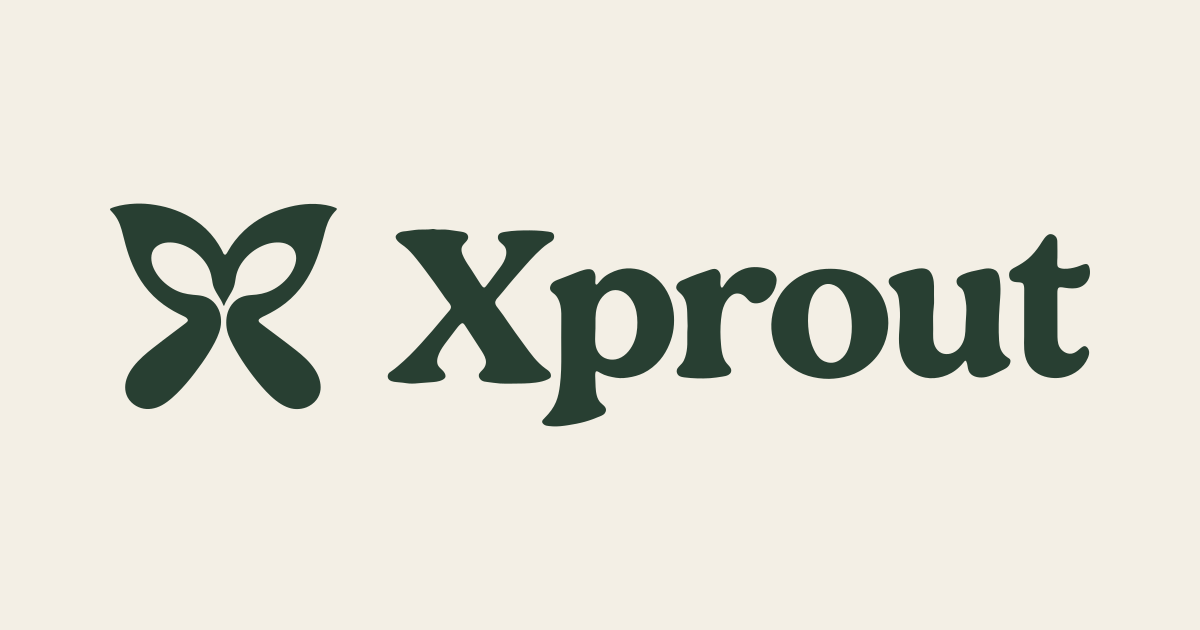
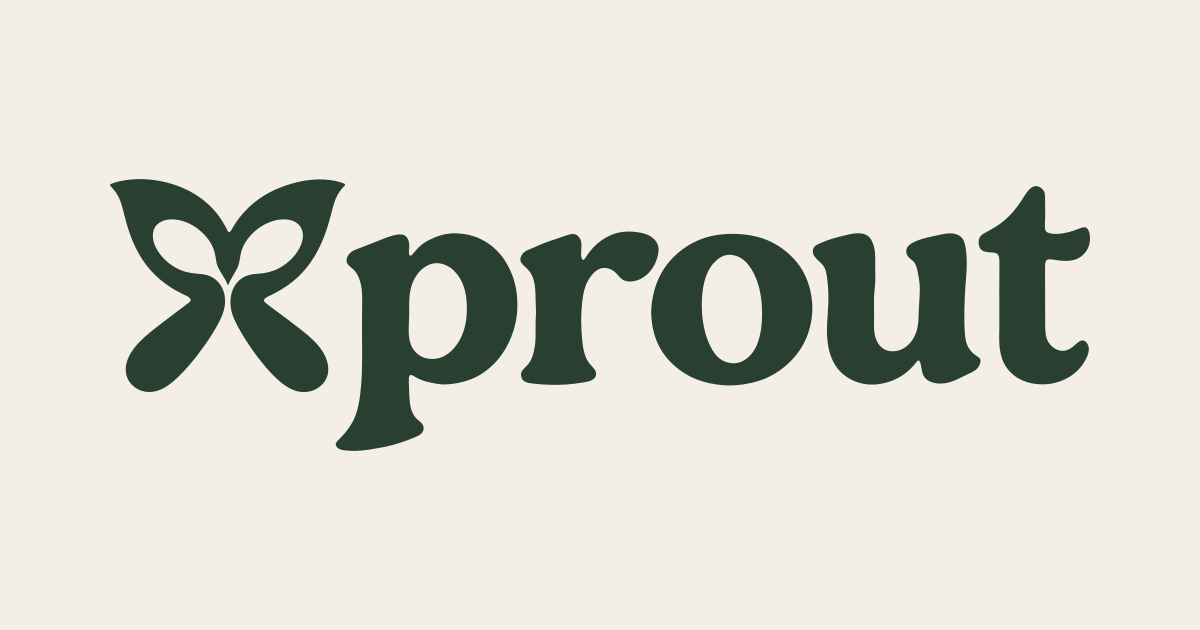
chore(brand): tighten the Xprout horizontal signature
Rebuilds the horizontal wordmark (forest and ivory) with the tighter
layout, the social card that uses it, and the scripts and geometry that
generate the pack; PlatformSignature follows the new aspect ratio.

Changed region(s): [[0.0925, 0.2714, 0.925, 0.7238], [0.0925, 0.5429, 0.1542, 0.6635]]

diff --git a/src/lib/platform-brand.ts b/src/lib/platform-brand.ts
@@ -1,4 +1,5 @@
-/** Versioned platform assets from the approved, unchanged Xprout v7 master. */
+/** Versioned platform assets from the approved Xprout v7 symbol and lettering. The horizontal
+ * signature is the monogram: the symbol stands in for the capital X, followed by "prout". */
 export const PLATFORM_BRAND_ASSETS = {
   icon: '/brand/xprout/v1/icon-512.png',
   icon192: '/brand/xprout/v1/icon-192.png',
@@ -9,16 +10,16 @@ export const PLATFORM_BRAND_ASSETS = {
   favicon32: '/brand/xprout/v1/favicon-32.png',
   faviconIco: '/brand/xprout/v1/favicon.ico',
   // Content revisions prevent an older proportional layout surviving CDN/browser caches.
-  horizontalForest: '/brand/xprout/v1/xprout-horizontal-forest.svg?v=3144b79c',
-  horizontalIvory: '/brand/xprout/v1/xprout-horizontal-ivory.svg?v=2e899574',
+  horizontalForest: '/brand/xprout/v1/xprout-horizontal-forest.svg?v=c8a37e22',
+  horizontalIvory: '/brand/xprout/v1/xprout-horizontal-ivory.svg?v=2918de51',
   symbolForest: '/brand/xprout/v1/xprout-symbol-forest.svg',
   symbolIvory: '/brand/xprout/v1/xprout-symbol-ivory.svg',
-  social: '/brand/xprout/v1/social-card-1200x630.webp?v=ad105444',
-  socialPng: '/brand/xprout/v1/social-card-1200x630.png?v=411ed0a0',
+  social: '/brand/xprout/v1/social-card-1200x630.webp?v=5c14a3a7',
+  socialPng: '/brand/xprout/v1/social-card-1200x630.png?v=92c8f195',
 } as const
 
 /** Version the generated social route with the approved PNG's content revision. */
-export const PLATFORM_SOCIAL_IMAGE = '/opengraph-image?v=411ed0a0'
+export const PLATFORM_SOCIAL_IMAGE = '/opengraph-image?v=92c8f195'
 
 /** Explicit configuration wins; only an absent logo selects the platform default. */
 export function platformLogoUrl(configured?: string | null): string {

diff --git a/tests/unit/platform-brand-runtime.test.ts b/tests/unit/platform-brand-runtime.test.ts
@@ -53,7 +53,7 @@ describe('approved platform identity preserves explicit configuration', () => {
     const markup = renderToStaticMarkup(createElement(PlatformSignature, { tone: 'ivory' }))
     expect(markup).toContain('alt="Xprout"')
     expect(markup).toContain(PLATFORM_BRAND_ASSETS.horizontalIvory)
-    expect(markup).toContain('aspect-ratio:1064.1543518142191 / 320.0414858022277')
+    expect(markup).toContain('aspect-ratio:901.8794539094855 / 314.0554789427838')
     expect(markup).not.toContain('<span')
   })
   it('uses the signature only for the default Xprout identity in navigation and footer', () => {

diff --git a/src/components/branding/PlatformSignature.tsx b/src/components/branding/PlatformSignature.tsx
@@ -9,9 +9,9 @@ export default function PlatformSignature({ tone = 'forest', className = '' }: {
   return <Image
     src={tone === 'ivory' ? PLATFORM_BRAND_ASSETS.horizontalIvory : PLATFORM_BRAND_ASSETS.horizontalForest}
     alt="Xprout"
-    width={1064}
-    height={320}
-    style={{ aspectRatio: '1064.1543518142191 / 320.0414858022277' }}
+    width={902}
+    height={314}
+    style={{ aspectRatio: '901.8794539094855 / 314.0554789427838' }}
     className={`h-auto w-[177px] min-w-[177px] shrink-0 object-contain sm:w-[195px] ${className}`}
   />
 }

diff --git a/scripts/branding/finalize-xprout-brand-pack.py b/scripts/branding/finalize-xprout-brand-pack.py
@@ -28,23 +28,27 @@ for target in [p/'manual/xprout-brand-manual.md',c/'brand-manual.md']: target.wr
 g = json.loads((c/'geometry.json').read_text())
 l = json.loads((c/'layouts.json').read_text())['horizontal']
 sha = lambda b: hashlib.sha256(b).hexdigest()
-centers = []
 for item in l['items']:
     shape = g[item['kind']]
     pen = BoundsPen(None); parse_path(shape['d'], pen)
     assert list(pen.bounds) == shape['bounds']
-    centers.append(item['y']+(pen.bounds[3]-pen.bounds[1])*item['scale']/2)
 body_bounds=l['alignment']['sourceBodyBounds']
 contour_bounds=[]
 for contour in re.findall(r'M[^M]+',g['wordmark']['d']):
     pen=BoundsPen(None);parse_path(contour,pen);contour_bounds.append(pen.bounds)
 capital_x=min(contour_bounds,key=lambda bounds:bounds[0])
 assert [capital_x[1],capital_x[3]]==body_bounds
-word=l['items'][1]
-body_center=word['y']+((body_bounds[0]+body_bounds[1])/2-g['wordmark']['bounds'][1])*word['scale']
-assert abs(centers[0]-body_center) < 1e-9
-assert centers[1] > body_center # p descender must not control alignment
-assert l['items'][1]['scale'] == .86
+# Monogram: the symbol stands in for the removed capital X, cap top to baseline.
+mark,word=l['items']
+assert [mark['kind'],word['kind']]==['symbol','prout']
+assert g['wordmark']['d']==g['prout']['d']+re.findall(r'M[^M]+',g['wordmark']['d'])[-1]
+assert sha(g['prout']['d'].encode())==g['proutProvenance']['pathSha256'] and list(capital_x)==g['proutProvenance']['removedContourBounds']
+body_height=body_bounds[1]-body_bounds[0]
+symbol_height=(g['symbol']['bounds'][3]-g['symbol']['bounds'][1])*mark['scale']
+assert mark['y']==0 and abs(symbol_height-body_height) < 1e-9 and word['scale']==1
+assert abs(word['y']-(g['prout']['bounds'][1]-body_bounds[0])) < 1e-9 # lettering keeps its baseline
+symbol_right=mark['x']+(g['symbol']['bounds'][2]-g['symbol']['bounds'][0])*mark['scale']
+assert abs((word['x']-symbol_right)-(g['prout']['bounds'][0]-capital_x[2]+l['alignment']['kern'])) < 1e-9
 assert sha(g['symbol']['d'].encode()) == g['symbolProvenance']['pathSha256']
 m = json.loads((p/'brand-manifest.json').read_text())
 palette=json.loads((c/'palette.json').read_text())
@@ -60,7 +64,7 @@ for a in m['assets']:
     if file.suffix=='.svg':
         paths=[e.attrib['d'] for e in ET.fromstring(data).iter() if e.tag.endswith('path')]
         if 'horizontal' in file.name:
-            assert g['symbol']['d'] in paths and g['wordmark']['d'] in paths
+            assert paths[-2:]==[g['symbol']['d'],g['prout']['d']]
     if file.suffix=='.png':
         with Image.open(file) as im: assert max(im.size)<=512 and len(data)<=40960
 for file,count in [('manual/xprout-brand-manual.pdf',10),('print/xprout-vector-masters.pdf',4)]:
@@ -69,7 +73,7 @@ for file,count in [('manual/xprout-brand-manual.pdf',10),('print/xprout-vector-m
 for k in ['horizontal','stacked','symbol','wordmark']:
     for color in ['forest','ivory']: assert (p/f'svg/xprout-{k}-{color}.svg').read_bytes()==(c/f'xprout-{k}-{color}.svg').read_bytes()
 (p/'README.md').write_text((c/'README.md').read_text(encoding='utf-8'),encoding='utf-8')
-report={'revision':'2026-11-14 horizontal placement','symbolPathSha256':sha(g['symbol']['d'].encode()),'wordmarkPathSha256':sha(g['wordmark']['d'].encode()),'fullInkCenters':centers,'symbolAndTypographicBodyCenters':[centers[0],body_center],'bodyBounds':body_bounds,'wordmarkY':word['y'],'symbolHeight':202,'wordmarkHeight':(g['wordmark']['bounds'][3]-g['wordmark']['bounds'][1])*.86,'wordmarkScale':.86,'assetsVerified':len(m['assets']),'pdfPages':[10,4],'visualReview':'Parent agent reviews regenerated forest and ivory signatures separately.'}
+report={'revision':'2026-11-16 monogram horizontal signature','symbolPathSha256':sha(g['symbol']['d'].encode()),'wordmarkPathSha256':sha(g['wordmark']['d'].encode()),'proutPathSha256':sha(g['prout']['d'].encode()),'bodyBounds':body_bounds,'symbolHeight':symbol_height,'symbolScale':mark['scale'],'letteringX':word['x'],'letteringY':word['y'],'letteringScale':word['scale'],'kern':l['alignment']['kern'],'assetsVerified':len(m['assets']),'pdfPages':[10,4],'visualReview':'Parent agent reviews regenerated forest and ivory signatures separately.'}
 (p/'evidence/horizontal-placement-verification.json').write_text(json.dumps(report,indent=2)+'\n')
 archive=p.parent/'xprout-brand-pack-v1.zip'
 with zipfile.ZipFile(archive,'w',zipfile.ZIP_DEFLATED,compresslevel=6) as z:

diff --git a/scripts/marketing/build-hero-dishes.py b/scripts/marketing/build-hero-dishes.py
@@ -11,6 +11,7 @@ import math
 import sys
 from pathlib import Path
 
+import bmesh
 import bpy
 from mathutils import Vector, Matrix
 
@@ -47,6 +48,15 @@ for slug, original, plate in [('picanha', 'premium-picanha', .30), ('burger', 'a
         obj.data.update()
         bpy.context.view_layer.objects.active = obj
         if len(obj.data.polygons) > 5000:
+            # glTF import splits vertices at every UV seam; decimating that
+            # mesh tears the seams open and the food turns see-through.
+            # Weld the seams first so the shell stays closed.
+            weld = bmesh.new()
+            weld.from_mesh(obj.data)
+            bmesh.ops.remove_doubles(weld, verts=weld.verts, dist=1e-5)
+            weld.to_mesh(obj.data)
+            weld.free()
+            obj.data.update()
             decimate = obj.modifiers.new('Bounded marketing geometry', 'DECIMATE')
             decimate.ratio = .22
             bpy.ops.object.modifier_apply(modifier=decimate.name)

diff --git a/docs/product/platform-brand-assets.md b/docs/product/platform-brand-assets.md
@@ -43,14 +43,18 @@ references therefore resolve to the approved forest/ivory tile after deployment.
 The versioned ICO is available for explicit metadata; no legacy source favicon
 existed to overwrite.
 
-The horizontal signature's current viewBox is
-`0 0 1064.1543518142191 320.0414858022277`; preserve this aspect ratio. Visible
-artwork is 963.1543518142191 by 219.04148580222773, with 50.5 units of clearspace
-around it. The manual's 160px visible horizontal minimum needs about 177px total
-SVG width. SVG image sizing must not stretch it into a square tile.
-The owner approved a compact marketing-header exception on2026-11-14:140px total
-below768px, with a44px link target, while desktop remains195px. This display role
-does not resize the vector masters or change the typography alignment reference.
+The horizontal signature is the monogram (2026-11-16): the v7 symbol replaces the
+capital X, scaled from the removed X's cap top to baseline, followed by the unchanged
+p, r, o, u, t outlines. Its viewBox is `0 0 901.8794539094855 314.0554789427838`;
+preserve this aspect ratio. The lettering body (symbol top to baseline) spans
+y = 44.199 to 220.997, so its center sits 24.429 units (7.7787% of the height) above
+the artwork box center because of the p descender. SVG image sizing must not stretch
+it into a square tile.
+The marketing header shows it at 176px total width (126px below 768px), with a 44px
+link target, and shifts it down by `translateY(7.7787%)` so the lettering body, not
+the descender, is centered in the bar (owner request 2026-11-16, 10% smaller than the
+previous 195px/140px). These sizes sit slightly under the manual's 160px visible
+minimum; this display role does not resize the vector masters.
 
 ## Verification
 
